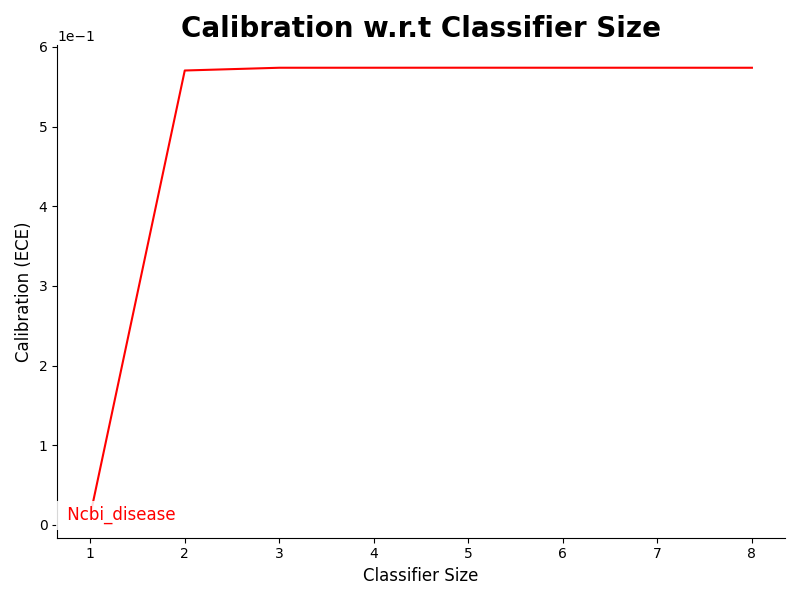
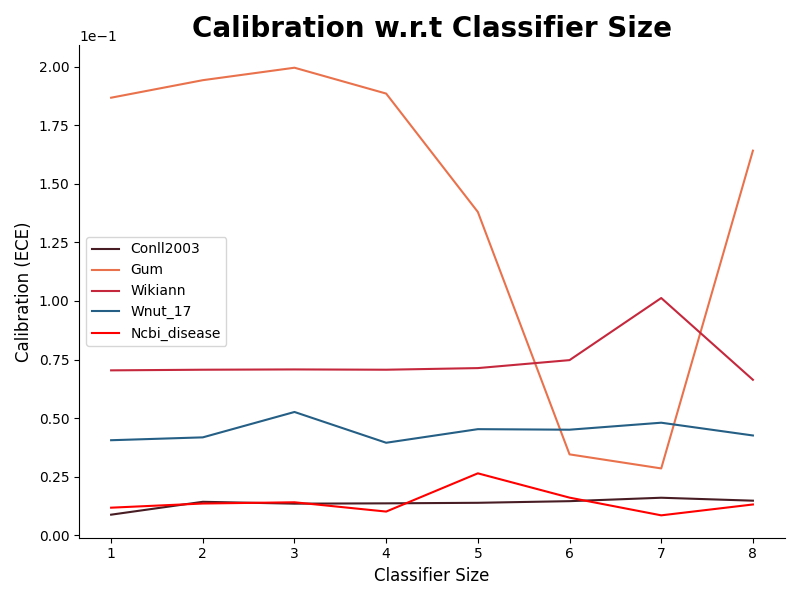
second test batch

diff --git a/trainer.py b/trainer.py
@@ -54,18 +54,23 @@ class CustomTrainer(Trainer):
             loss = loss.mean()
         loss.backward()
 
-        batch_size, seq_len = inputs["input_ids"].shape
-        noise = torch.cuda.FloatTensor(batch_size, seq_len, 768).normal_()
-        probas = obj.classifier(noise).softmax(2)
-        loss = torch.pow((1/probas.shape[2] - probas.max(2).values), 2).sum()
-        if self.args.n_gpu > 1:
-            loss = loss.mean()
-        loss.backward()
 
-        # We just backpropagated 3 times on the final classifier but once only on the upstream language model
+        ##! WARNING WARNING WARNING WARNING WARNING WARNING 
+        ##! WARNING WARNING WARNING WARNING WARNING WARNING 
+        ##! WARNING WARNING WARNING WARNING WARNING WARNING
+
+        # batch_size, seq_len = inputs["input_ids"].shape
+        # noise = torch.cuda.FloatTensor(batch_size, seq_len, 768).normal_()
+        # probas = obj.classifier(noise).softmax(2)
+        # loss = torch.pow((1/probas.shape[2] - probas.max(2).values), 2).sum()
+        # if self.args.n_gpu > 1:
+        #     loss = loss.mean()
+        # loss.backward()
+
+        # We just backpropagated 2 times on the final classifier but once only on the upstream language model
         # We /2 the classifier grad to break even
         for p in obj.classifier.parameters():
-            p.grad /= 3.
+            p.grad /= 2.
 
         return loss.detach()
 

diff --git a/plot/plot_ece_vs_size.py b/plot/plot_ece_vs_size.py
@@ -4,8 +4,8 @@ import json
 import math
 
 
-DATASETS = ['conll2003', 'GUM', 'wikiann', 'wnut_17']
-DATASETS = ['ncbi_disease']
+DATASETS = ['conll2003', 'GUM', 'wikiann', 'wnut_17', 'ncbi_disease']
+# DATASETS = ['GUM']
 DATASET_COLOR = {'conll2003': '#481D24', 
                  'GUM': '#E9724C',
                  'ncbi_disease': 'red', 
@@ -48,22 +48,23 @@ for d in DATASETS:
     # )
     tx = X[0] + .3
     ty = r[d][0]
-    ax.text(
-        tx,
-        ty,
-        " " + line.get_label(),
-        family="Roboto Condensed",
-        size="large",
-        bbox=dict(facecolor="white", edgecolor="None", alpha=0.85),
-        color=line.get_color(),
-        ha="center",
-        va="center",
-        rotation=0.,
-    )
+    # ax.text(
+    #     tx,
+    #     ty,
+    #     " " + line.get_label(),
+    #     family="Roboto Condensed",
+    #     size="large",
+    #     bbox=dict(facecolor="white", edgecolor="None", alpha=0.85),
+    #     color=line.get_color(),
+    #     ha="center",
+    #     va="center",
+    #     rotation=0.,
+    # )
 
 plt.title("Calibration w.r.t Classifier Size", fontname="DejaVu", fontweight="bold", fontdict={"size": "20"})
 plt.xlabel("Classifier Size", fontdict={'size': 'large'})
 plt.xticks(X)
+plt.legend()
 plt.ylabel("Calibration (ECE)", fontdict={'size': 'large'})
 plt.ticklabel_format(axis="y", style="sci", scilimits=(0,0))
 plt.tight_layout()

diff --git a/ner_uncertainty.py b/ner_uncertainty.py
@@ -27,7 +27,7 @@ class AbstentionBertForTokenClassification(BertForTokenClassification):
         
         self.classifier = nn.Linear(config.hidden_size, config.num_labels) if hidden_layers == 0 else nn.Sequential(
             nn.Linear(config.hidden_size, width), 
-            *[ nn.Sequential(nn.Linear(width, width), nn.Dropout(p=.2), nn.ReLU()) for i in range(hidden_layers - 1) ], 
+            *[ nn.Sequential(nn.Linear(width, width), nn.ReLU()) for i in range(hidden_layers - 1) ], 
             nn.Linear(width, config.num_labels)
         )
         self.init_weights()
